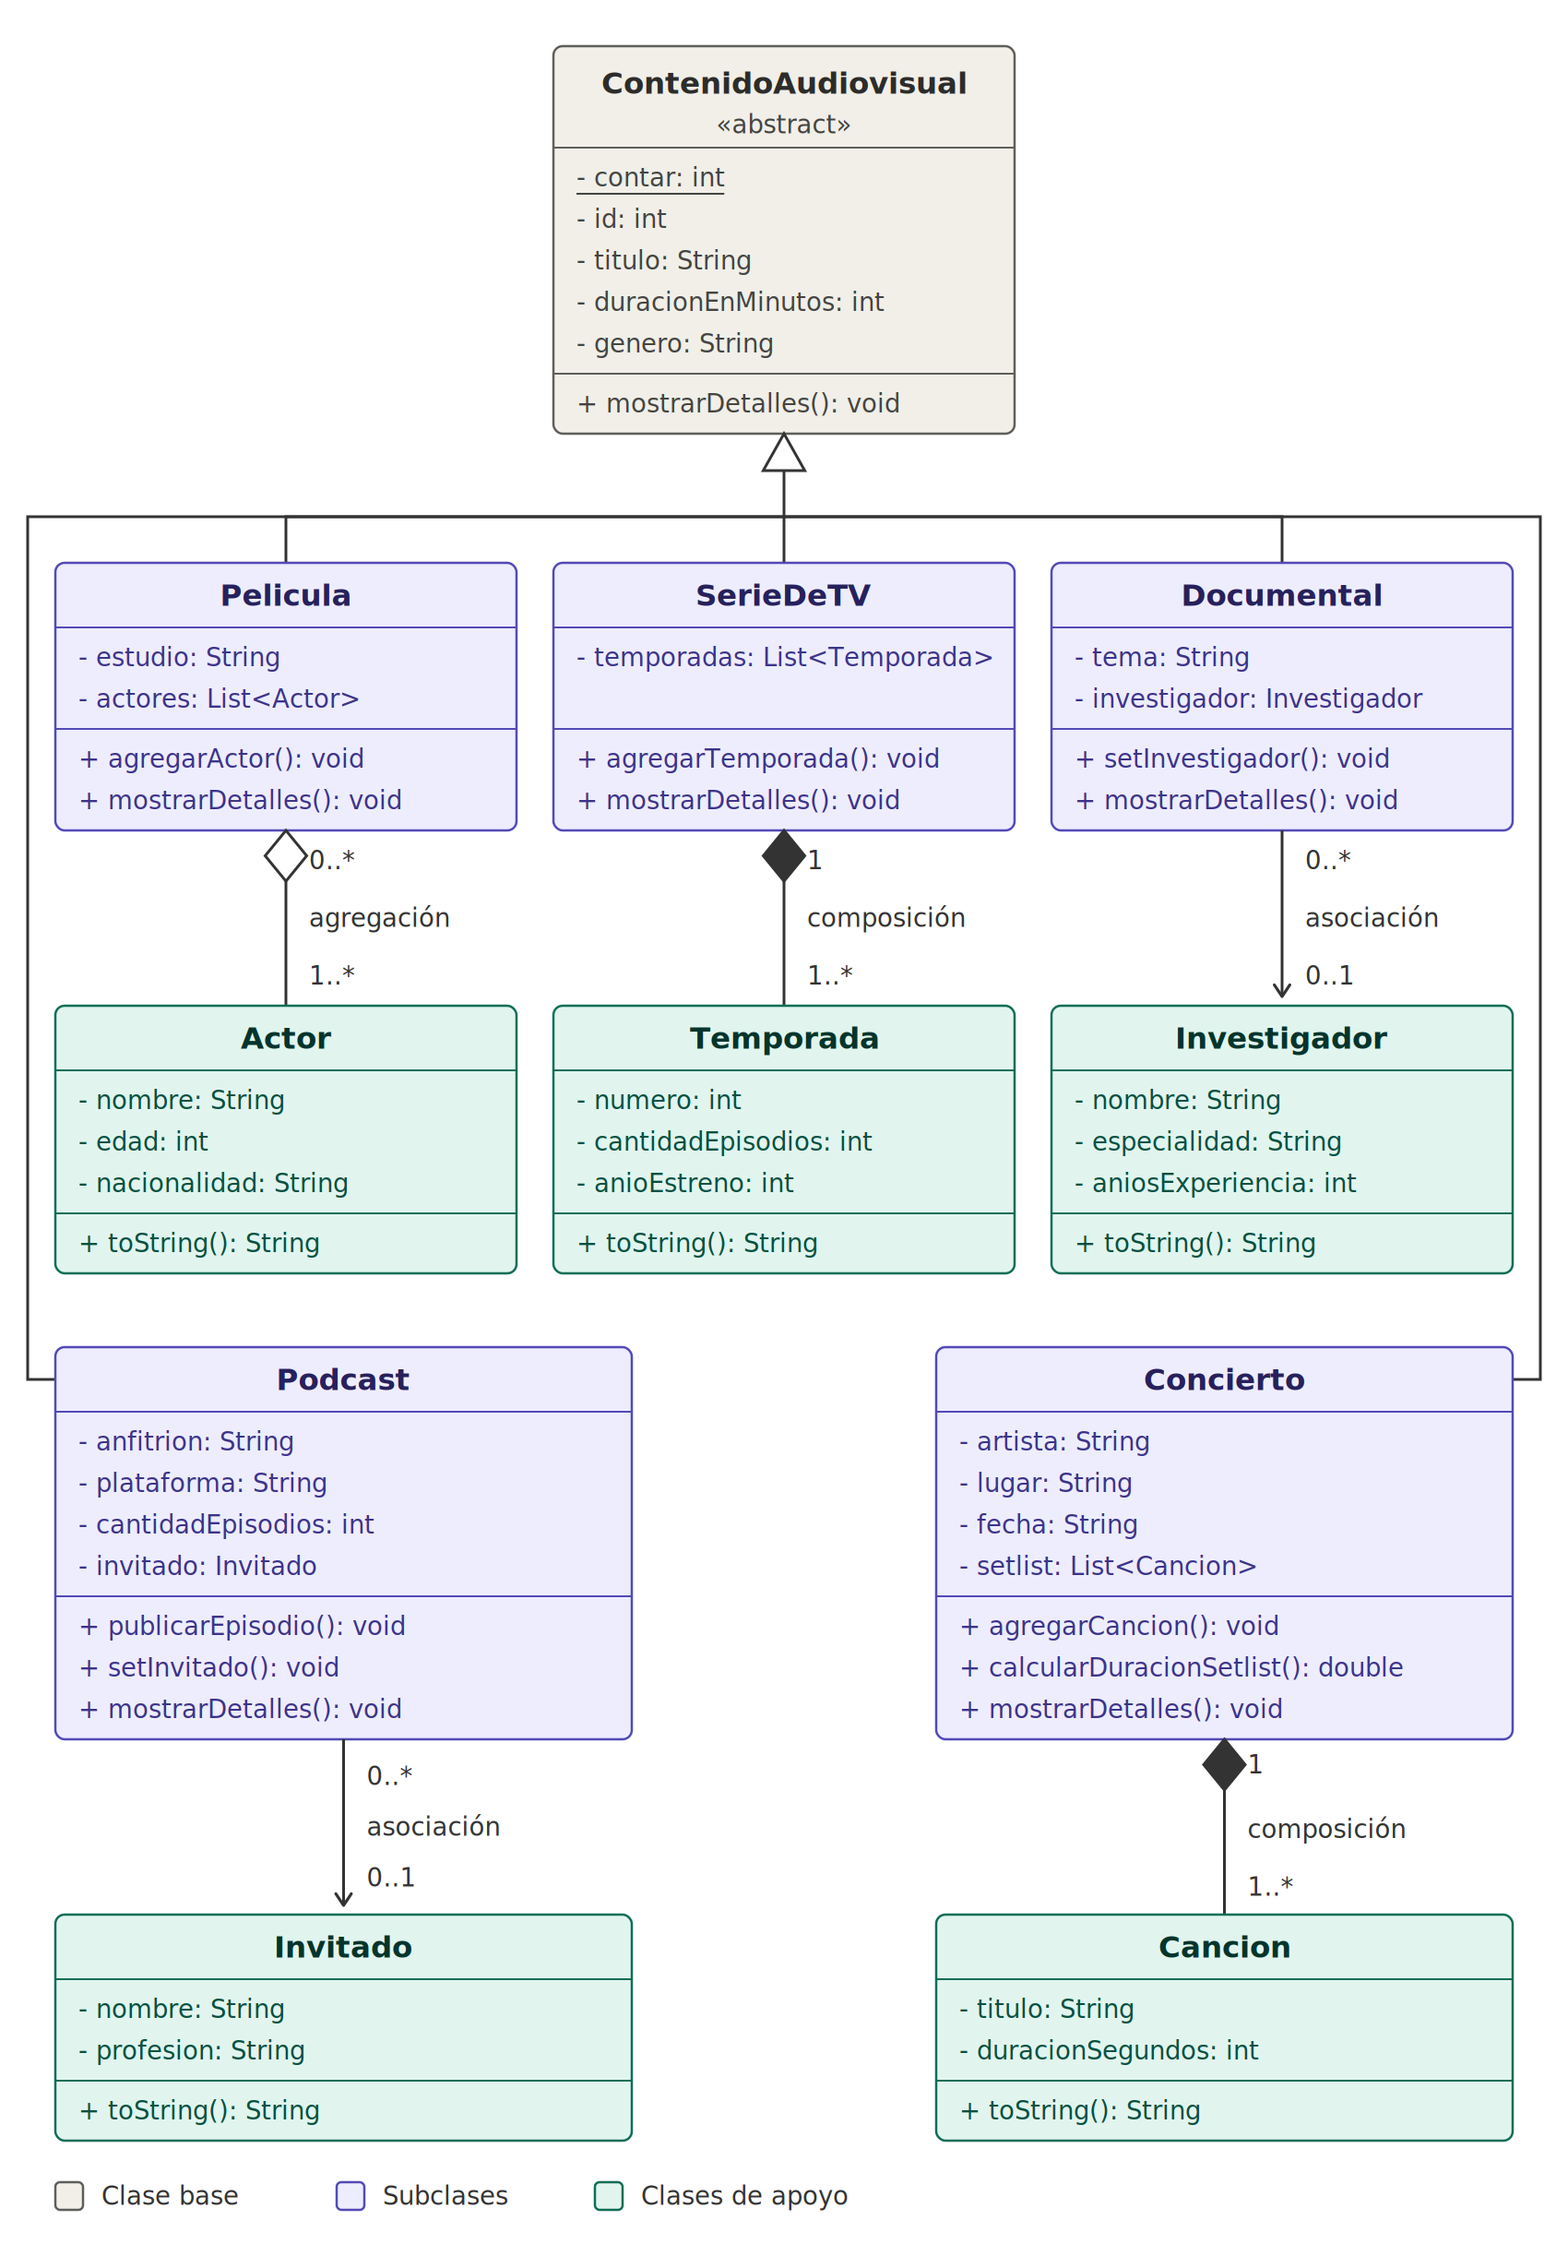
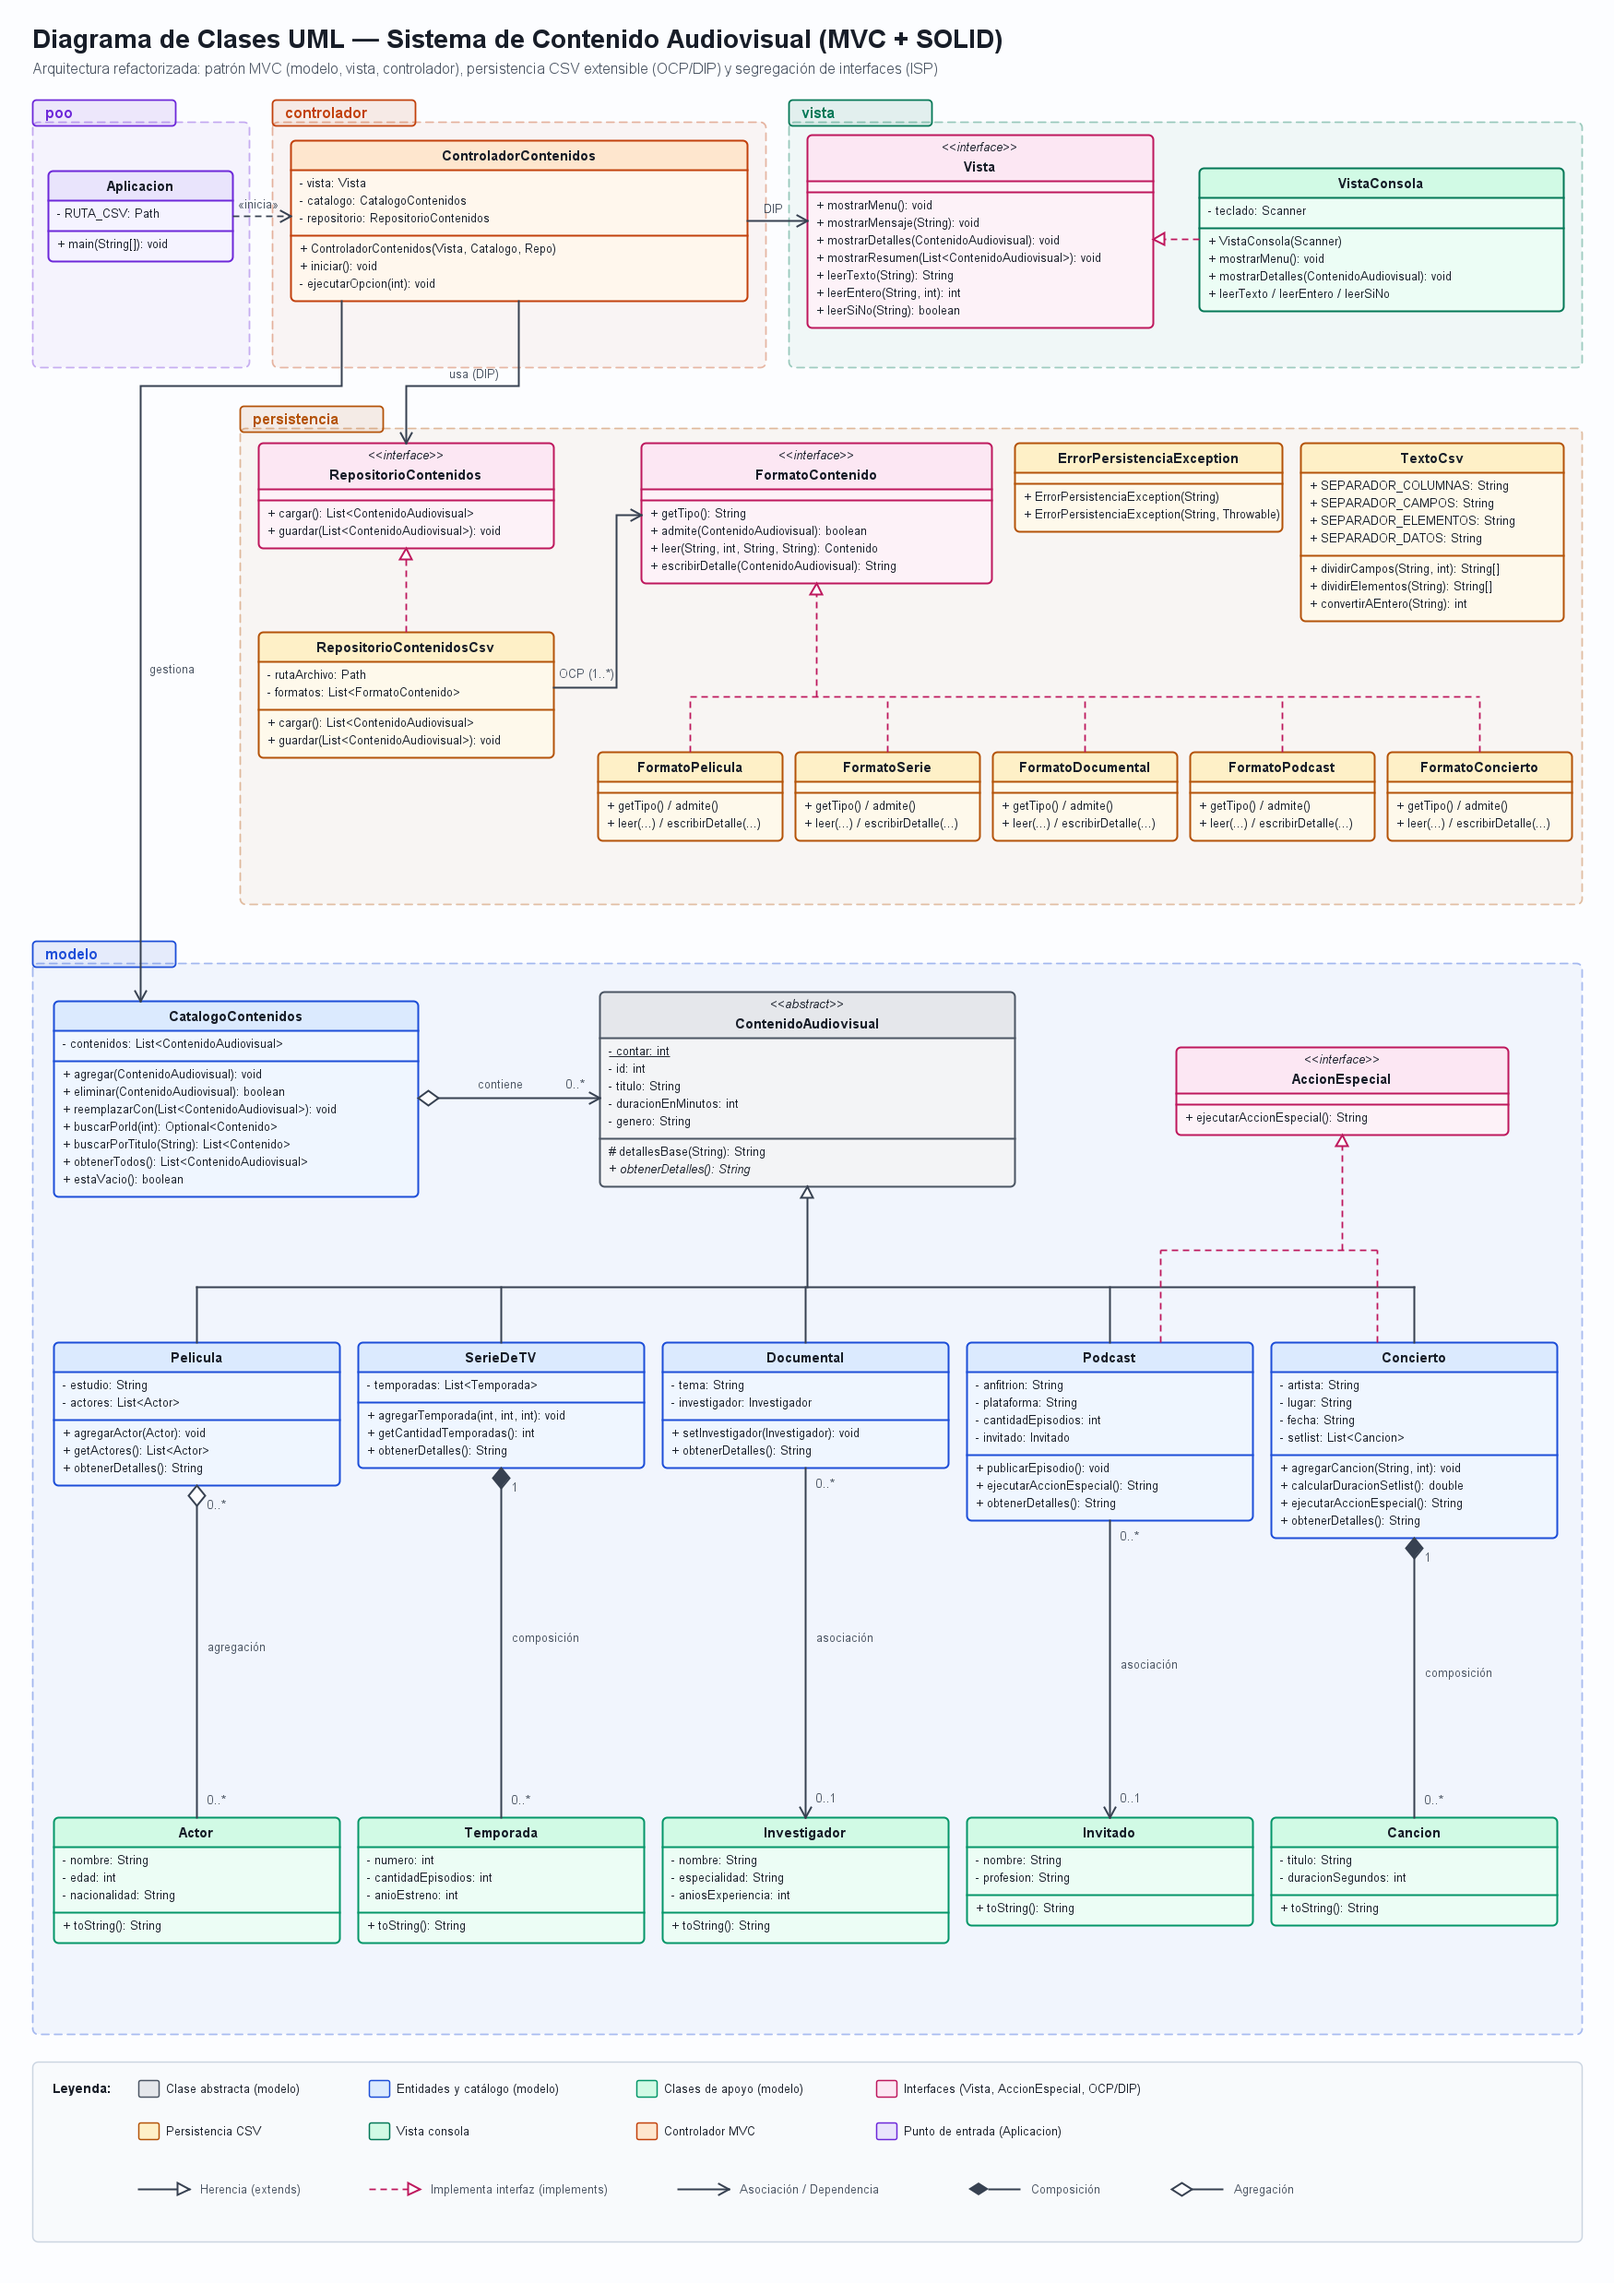
Entrega final: actualizar diagrama de clases y README.md

Changed region(s): [[0.0, 0.0, 0.9976, 0.9947], [0.53, 0.9014, 0.5612, 0.9636]]

diff --git a/README.md b/README.md
@@ -1,2 +1,121 @@
-# Poo-contenido-audiovisual-U4
-Sistema de Contenido Audiovisual con código limpio - U4
+# Sistema de Contenido Audiovisual — POO Unidad 4
+
+Sistema de consola en Java para la gestión de contenidos audiovisuales (**Películas**, **Series de TV**, **Documentales**, **Podcasts** y **Conciertos**), refactorizado aplicando **Código Limpio**, **Principios SOLID**, el patrón **MVC (Modelo–Vista–Controlador)**, persistencia en **CSV** y pruebas unitarias con **JUnit 5**.
+
+---
+
+## Cambios realizados por etapa
+
+### Etapa 1: Manejo de archivos (CSV)
+- Implementación de lectura y escritura de contenidos en `datos/contenidos.csv` (`tipo,titulo,duracion,genero,detalle`).
+- Serialización y deserialización completa de los cinco tipos de contenido junto con sus entidades asociadas (`Actor`, `Temporada`, `Investigador`, `Invitado` y `Cancion`).
+- Manejo explícito de errores de entrada/salida y formato mediante la excepción personalizada `ErrorPersistenciaException`.
+
+### Etapa 2: Refactorización y Código Limpio
+- Nombres claros y expresivos en clases, métodos, constantes y variables.
+- División de métodos largos en métodos pequeños y específicos (por ejemplo `leerDatosBasicos`, `registrarContenido`, `repetir` y `detallesBase`).
+- Eliminación de código duplicado y clases temporales/obsoletas (`MenuAudiovisual` y `PruebaCsv`), conservando únicamente comentarios necesarios que aportan contexto.
+
+### Etapa 3: Principios SOLID
+- **SRP (Responsabilidad Única):** separación clara entre entidades de negocio (`modelo`), colección en memoria (`CatalogoContenidos`), persistencia CSV (`persistencia`), entrada/salida (`vista`) y coordinación (`controlador`).
+- **OCP (Abierto/Cerrado):** el repositorio CSV delega el formato de cada tipo a la interfaz `FormatoContenido` (`FormatoPelicula`, `FormatoSerie`, `FormatoDocumental`, `FormatoPodcast`, `FormatoConcierto`), permitiendo agregar nuevos tipos sin modificar `RepositorioContenidosCsv`.
+- **LSP (Sustitución de Liskov):** todas las subclases de `ContenidoAudiovisual` se gestionan de forma polimórfica en el catálogo, la vista y la persistencia mediante `obtenerDetalles()`.
+- **ISP (Segregación de Interfaces):** interfaces pequeñas y específicas (`AccionEspecial` implementada solo por `Podcast` y `Concierto`, además de `Vista`, `RepositorioContenidos` y `FormatoContenido`).
+- **DIP (Inversión de Dependencias):** `ControladorContenidos` depende de las abstracciones `Vista` y `RepositorioContenidos`, recibiendo sus implementaciones por inyección de dependencias desde `Aplicacion`.
+
+### Etapa 4: Patrón MVC
+- **Modelo (`modelo`):** `ContenidoAudiovisual`, `Pelicula`, `SerieDeTV`, `Documental`, `Podcast`, `Concierto`, clases de apoyo (`Actor`, `Temporada`, `Investigador`, `Invitado`, `Cancion`), `AccionEspecial` y `CatalogoContenidos`.
+- **Vista (`vista`):** interfaz `Vista` e implementación `VistaConsola`, encargada exclusivamente de la interacción por consola.
+- **Controlador (`controlador`):** `ControladorContenidos`, encargado de coordinar el menú, el catálogo, la vista y el repositorio CSV.
+
+### Etapa 5: Pruebas unitarias (JUnit 5)
+- Suite de **37 pruebas unitarias** distribuidas en **8 clases** dentro de `test/`, cubriendo casos normales, límite y excepcionales para modelo, catálogo, persistencia CSV y controlador MVC.
+
+---
+
+## Estructura del proyecto
+
+```text
+Poo-contenido-audiovisual-U4/
+├── datos/
+│   └── contenidos.csv
+├── docs/
+│   └── diagrama_clases.png
+├── src/
+│   ├── controlador/
+│   │   └── ControladorContenidos.java
+│   ├── modelo/
+│   │   ├── AccionEspecial.java
+│   │   ├── Actor.java
+│   │   ├── Cancion.java
+│   │   ├── CatalogoContenidos.java
+│   │   ├── Concierto.java
+│   │   ├── ContenidoAudiovisual.java
+│   │   ├── Documental.java
+│   │   ├── Investigador.java
+│   │   ├── Invitado.java
+│   │   ├── Pelicula.java
+│   │   ├── Podcast.java
+│   │   ├── SerieDeTV.java
+│   │   └── Temporada.java
+│   ├── persistencia/
+│   │   ├── ErrorPersistenciaException.java
+│   │   ├── FormatoConcierto.java
+│   │   ├── FormatoContenido.java
+│   │   ├── FormatoDocumental.java
+│   │   ├── FormatoPelicula.java
+│   │   ├── FormatoPodcast.java
+│   │   ├── FormatoSerie.java
+│   │   ├── RepositorioContenidos.java
+│   │   ├── RepositorioContenidosCsv.java
+│   │   └── TextoCsv.java
+│   ├── poo/
+│   │   ├── Aplicacion.java
+│   │   └── PruebaAudioVisual.java
+│   └── vista/
+│       ├── Vista.java
+│       └── VistaConsola.java
+└── test/
+    ├── controlador/
+    │   └── ControladorContenidosTest.java
+    ├── modelo/
+    │   ├── CatalogoContenidosTest.java
+    │   ├── ConciertoTest.java
+    │   ├── DocumentalTest.java
+    │   ├── PeliculaTest.java
+    │   ├── PodcastTest.java
+    │   └── SerieDeTVTest.java
+    └── persistencia/
+        └── RepositorioContenidosCsvTest.java
+```
+
+---
+
+## Diagrama de clases actualizado
+
+![Diagrama de clases UML](docs/diagrama_clases.png)
+
+---
+
+## Cómo clonar y ejecutar el proyecto
+
+### Requisitos
+- **Java JDK 17 o superior** (el proyecto utiliza `record` y `switch` mejorado).
+- **Eclipse IDE for Java Developers** (con soporte JUnit 5 incluido).
+
+### Pasos
+1. Clonar el repositorio:
+   ```bash
+   git clone https://github.com/AngelCab97/Poo-contenido-audiovisual-U4.git
+   ```
+2. En Eclipse, importar el proyecto: **File -> Open Projects from File System...** (o **Existing Projects into Workspace**) y seleccionar la carpeta clonada.
+3. Ejecutar la aplicación principal: clic derecho sobre `src/poo/Aplicacion.java` -> **Run As -> Java Application**.
+4. Desde el menú de consola puedes registrar contenidos, cargar datos de ejemplo (opción `11`), cargar desde `datos/contenidos.csv` (opción `12`) o guardar cambios en CSV (opción `13`).
+
+---
+
+## Cómo ejecutar las pruebas unitarias
+
+1. En el **Package Explorer** de Eclipse, haz clic derecho sobre la carpeta **`test/`**.
+2. Selecciona **Run As -> JUnit Test**.
+3. Eclipse ejecutará las 8 clases de prueba con **JUnit 5** (37 pruebas en total) y mostrará el resultado en la pestaña **JUnit**.
